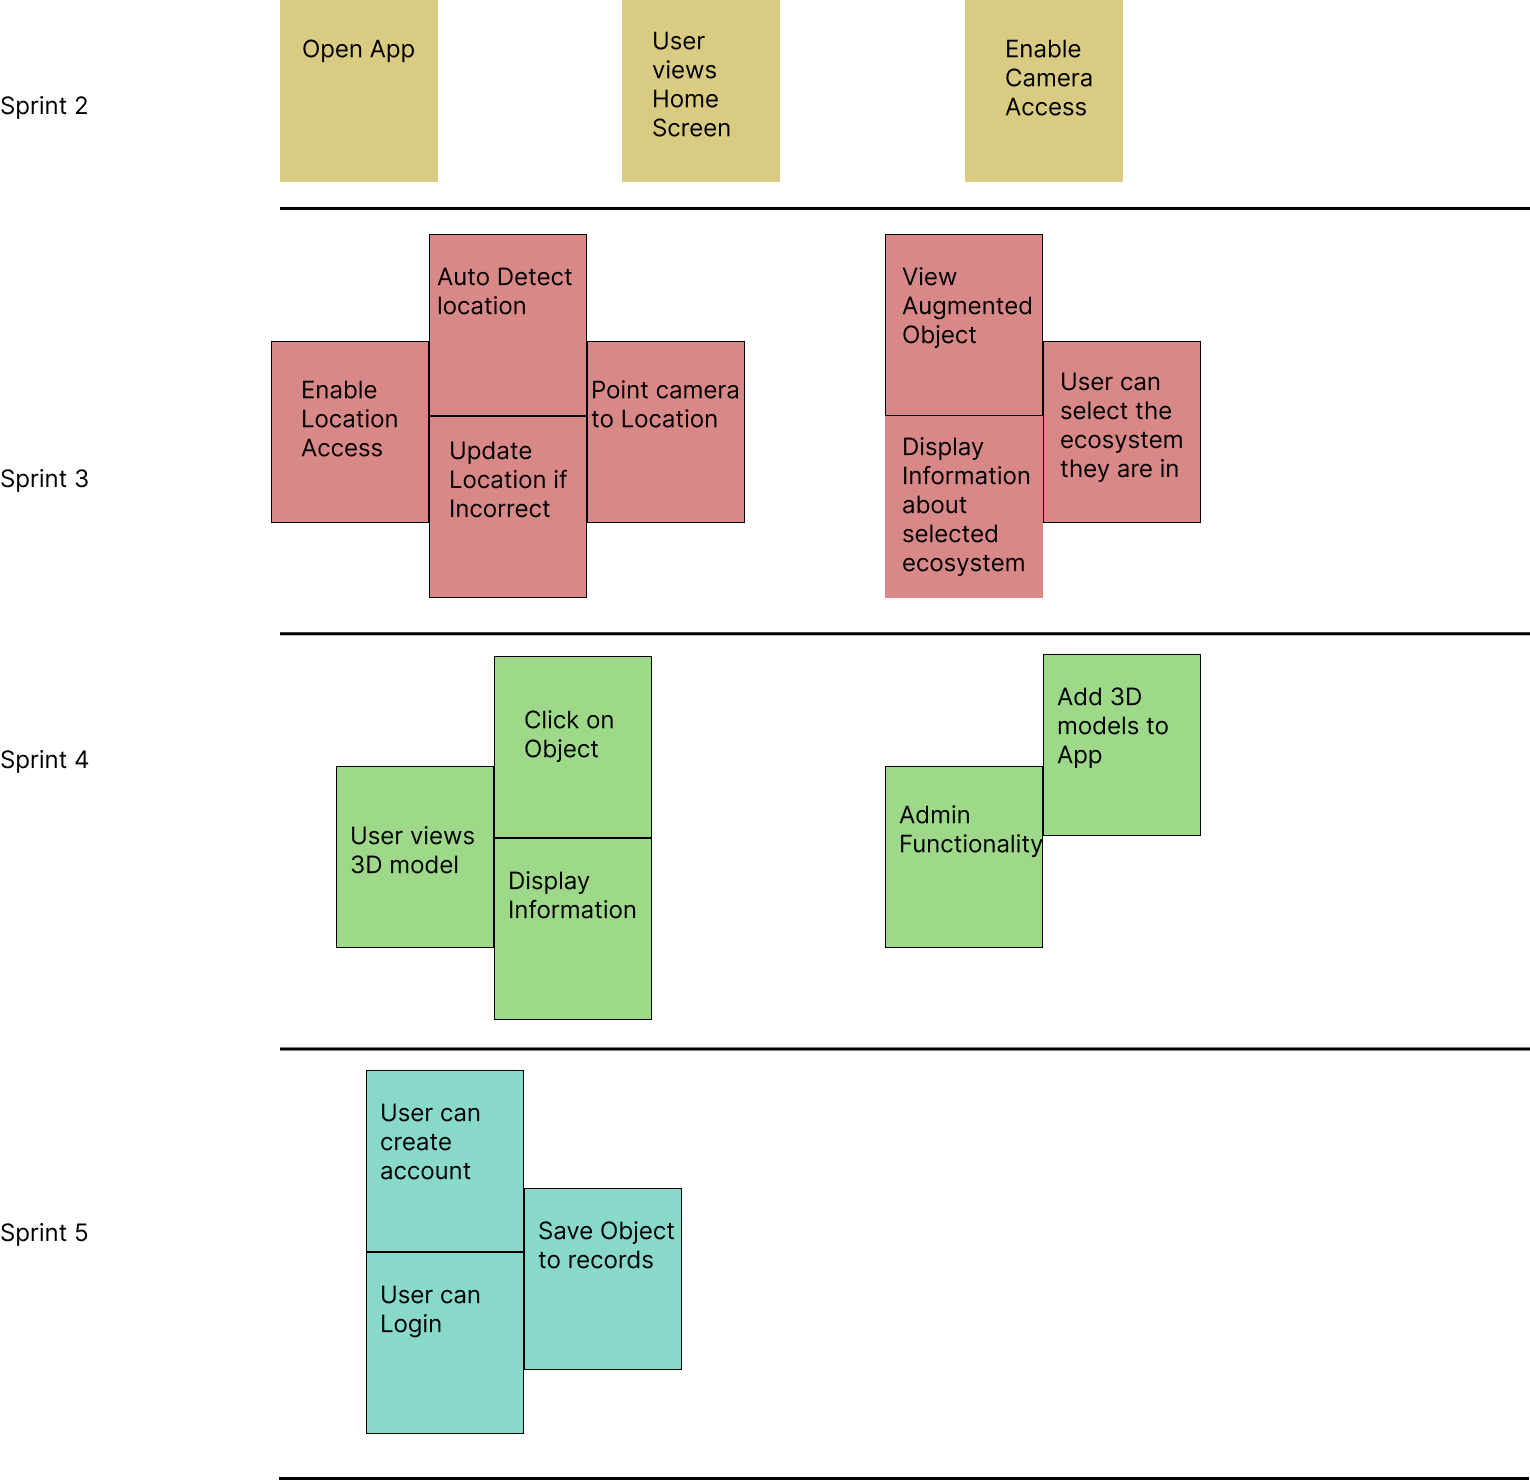
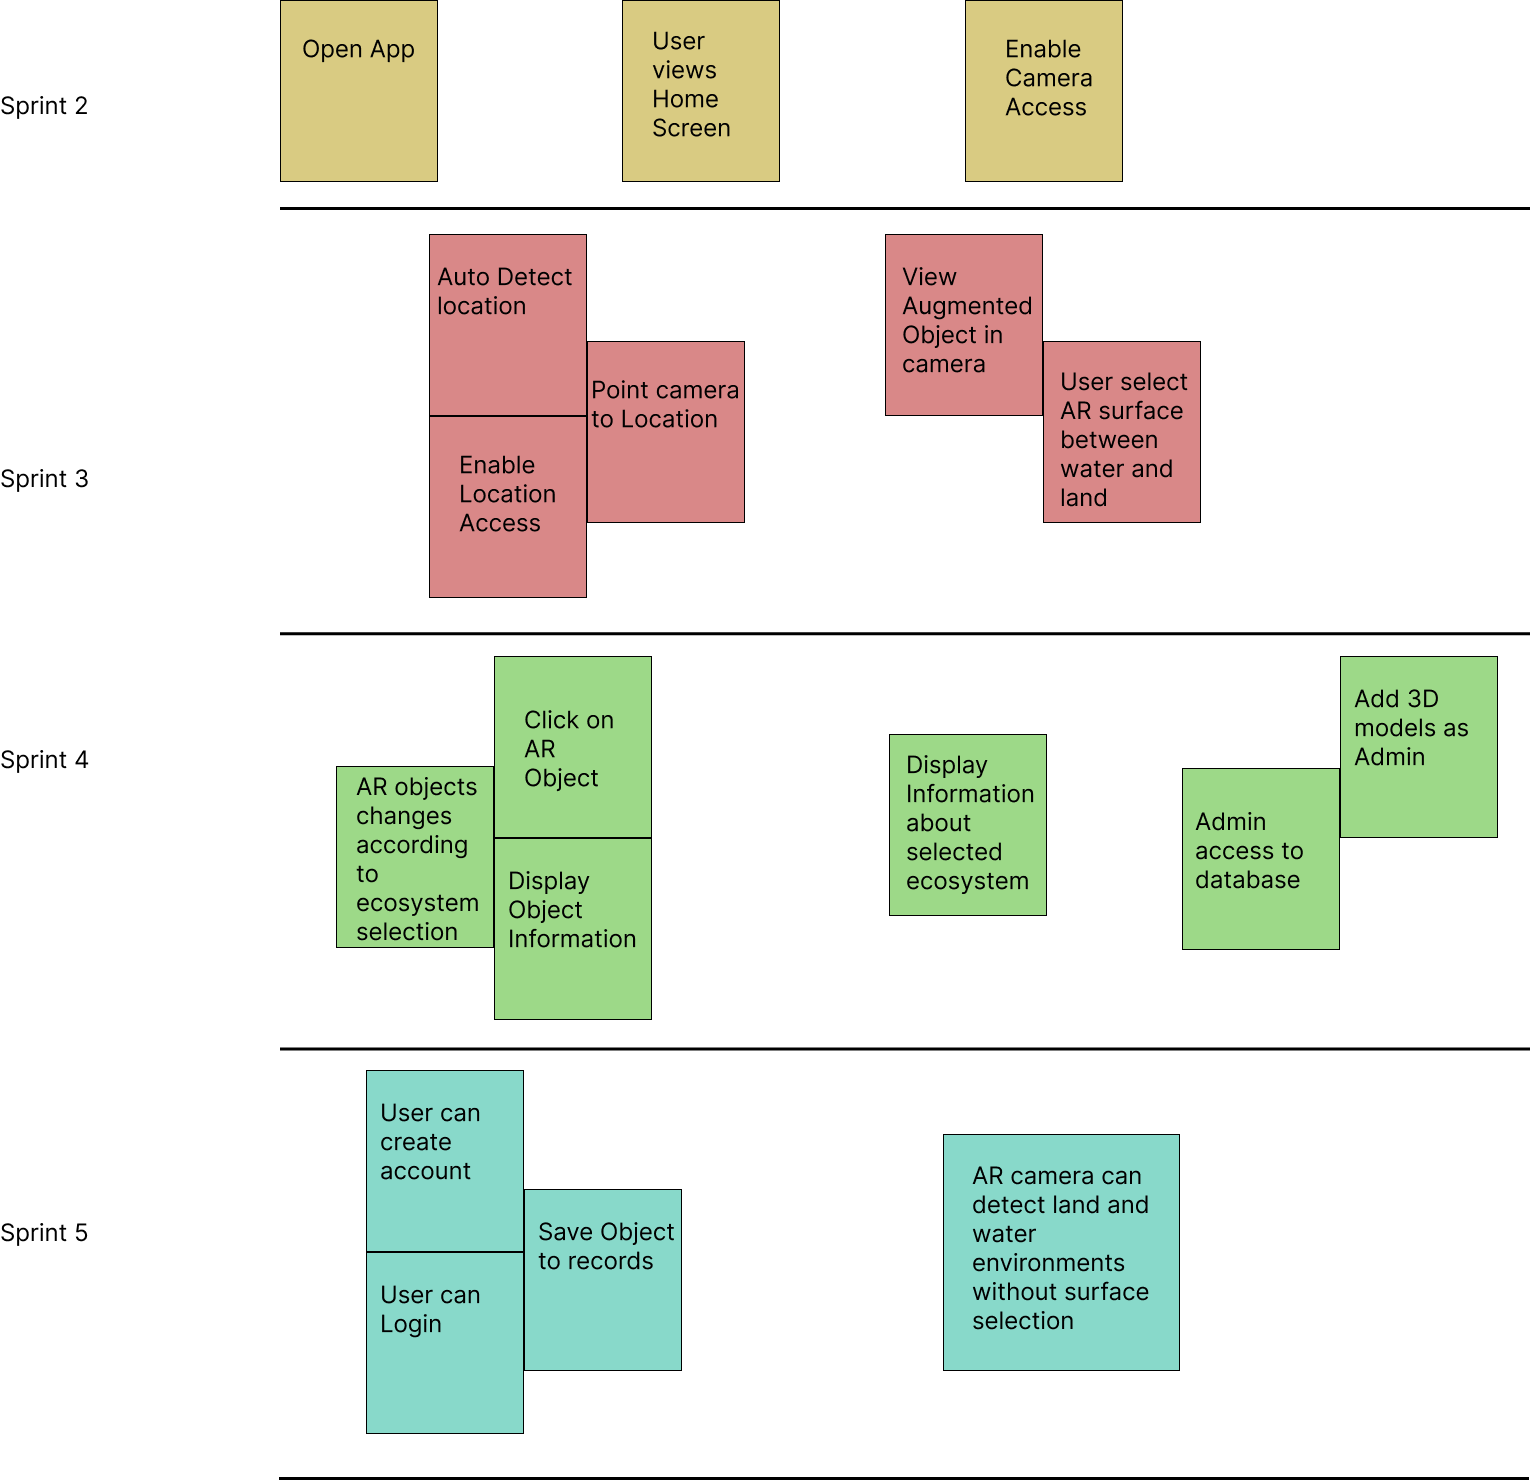
proj management update

diff --git a/docs/pages/management/index.html b/docs/pages/management/index.html
@@ -682,13 +682,19 @@
 <td>Mar 1</td>
 </tr>
 <tr>
+<td>Update Wireframes</td>
+<td>Documentation</td>
+<td>Vaibhav Chugh</td>
+<td>Mar 1</td>
+</tr>
+<tr>
 <td>Sprint 4 planning</td>
 <td>Documentation</td>
 <td>Yui Han</td>
 <td>Mar 1</td>
 </tr>
 <tr>
-<td>Unit Testing</td>
+<td>Unit Testing, UI Testing</td>
 <td>Testing</td>
 <td>Raunak Argarwal, Huy Ta</td>
 <td>Mar 1</td>
@@ -741,15 +747,15 @@
 </thead>
 <tbody>
 <tr>
-<td>Select models based on client provided species, add models to database</td>
+<td>Select models based on client provided species, add models to database as admin</td>
 <td>US 01.06</td>
-<td>Mohammad Hammad, Huy Ta</td>
+<td>Huy Ta, Raunak Argawal</td>
 <td>Mar 12</td>
 </tr>
 <tr>
 <td>Allow models to be clickable and view their description upon clicking</td>
 <td>US 02.02, US 02.03.01</td>
-<td>Yui Han, Kevin Sha</td>
+<td>Yui Han, Kevin Sha, Mohammad Hammad</td>
 <td>Mar 12</td>
 </tr>
 <tr>

diff --git a/docblueprint/pages/management.md b/docblueprint/pages/management.md
@@ -75,6 +75,7 @@ Estimated Sprint Velocity: **22**
 | Create a toggle switch that allows user to set their surface as land or water | US 01.04 | Yui Han, Mohammad Hammad | Feb 24 |
 | Spawn AR objects on selected surface | US 02.01 | Mohammad Hammad, Huy Ta | Mar 1 |
 | Fix docs according to TA feedback | Documentation | Raunak Agarwal, Vaibhav Chugh, Yui Han | Mar 1 |
+| Update Wireframes | Documentation | Vaibhav Chugh | Mar 1 |
 | Sprint 4 planning | Documentation | Yui Han | Mar 1 |
 | Unit Testing, UI Testing | Testing | Raunak Argarwal, Huy Ta | Mar 1 |
 
